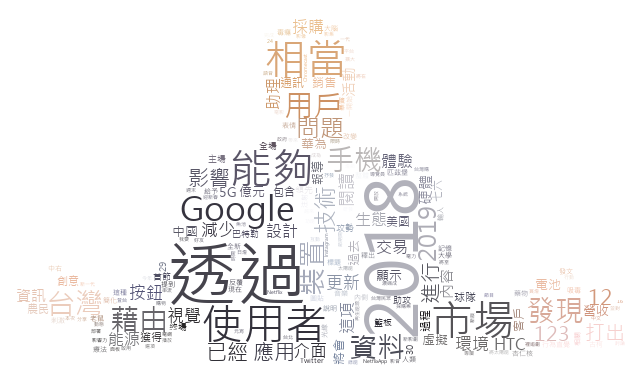
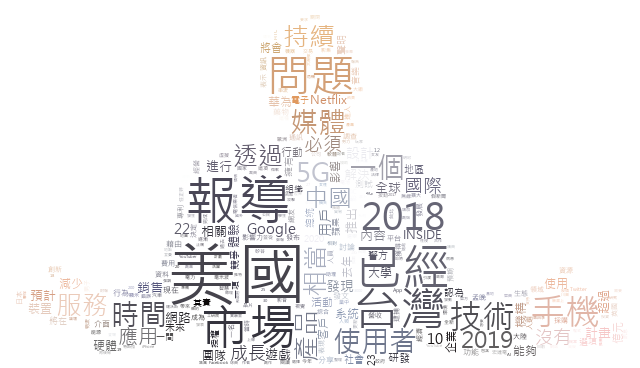
新聞上限增加到1個來源50則

Changed region(s): [[0.0312, 0.0299, 0.9688, 1.0], [0.0625, 0.7174, 0.0938, 0.7473]]

diff --git a/searchET.py b/searchET.py
@@ -11,7 +11,7 @@ class ETCrawler:
         self.news = []
         self.singleNews = {'title':'', 'time':'', 'content':'', 'resource':'', 'url':''}
     def newsurl(self):
-        for i in range(1,2):
+        for i in range(1,5):
             res = requests.get('https://www.ettoday.net/news_search/doSearch.php?keywords={}&idx=1&page='.format(self.keyWord)+str(i))
             soup = BeautifulSoup(res.text, 'html.parser')
             for link in soup.findAll('div',class_='box_1'):

diff --git a/searchID.py b/searchID.py
@@ -43,7 +43,7 @@ class IDCrawler(Crawler):
         self.keyUrl = "https://www.inside.com.tw/page/"
 
     def GetNewsUrls(self):
-        for i in range (1, 2):
+        for i in range (1, 4):
             res = requests.get(self.keyUrl + str(i) + "?s=" + self.keyWord)
             soup = BeautifulSoup(res.text, 'html.parser')
             for link in soup.findAll('h3',class_='post_title'):
